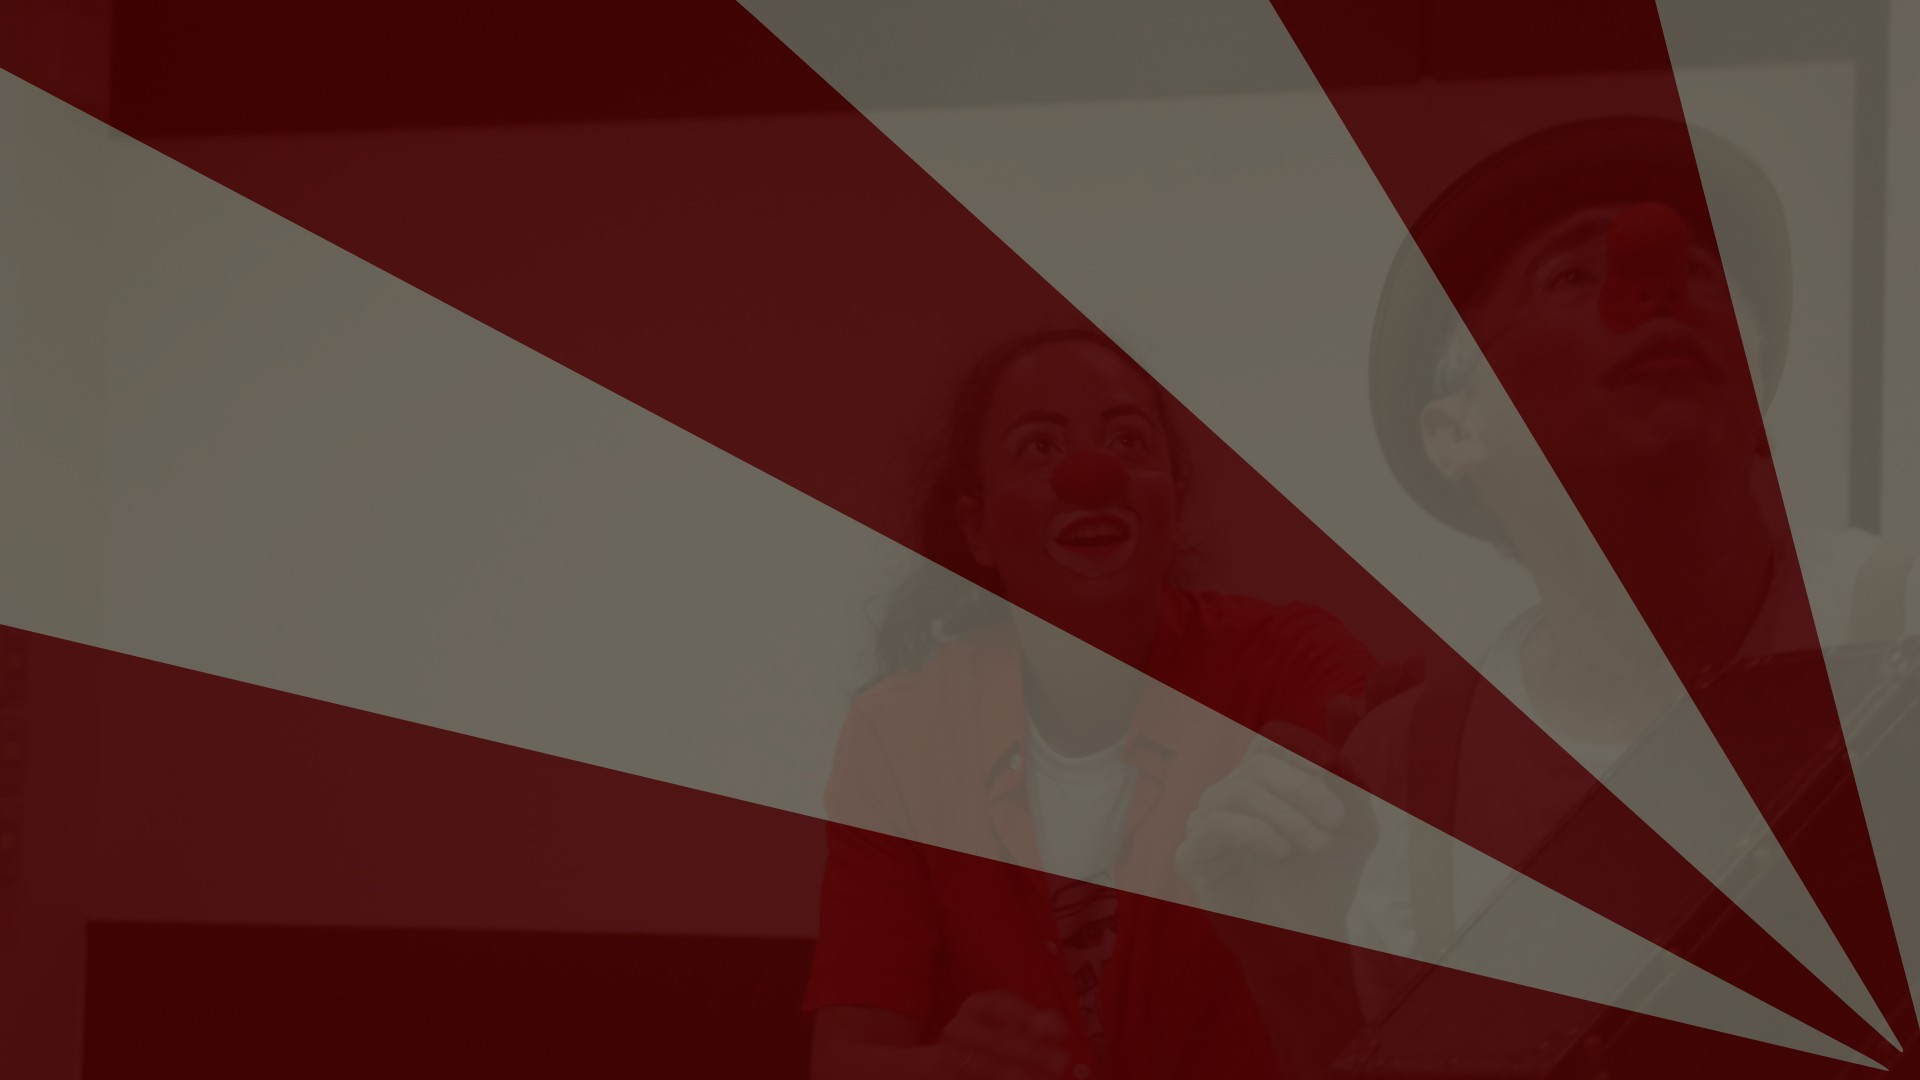
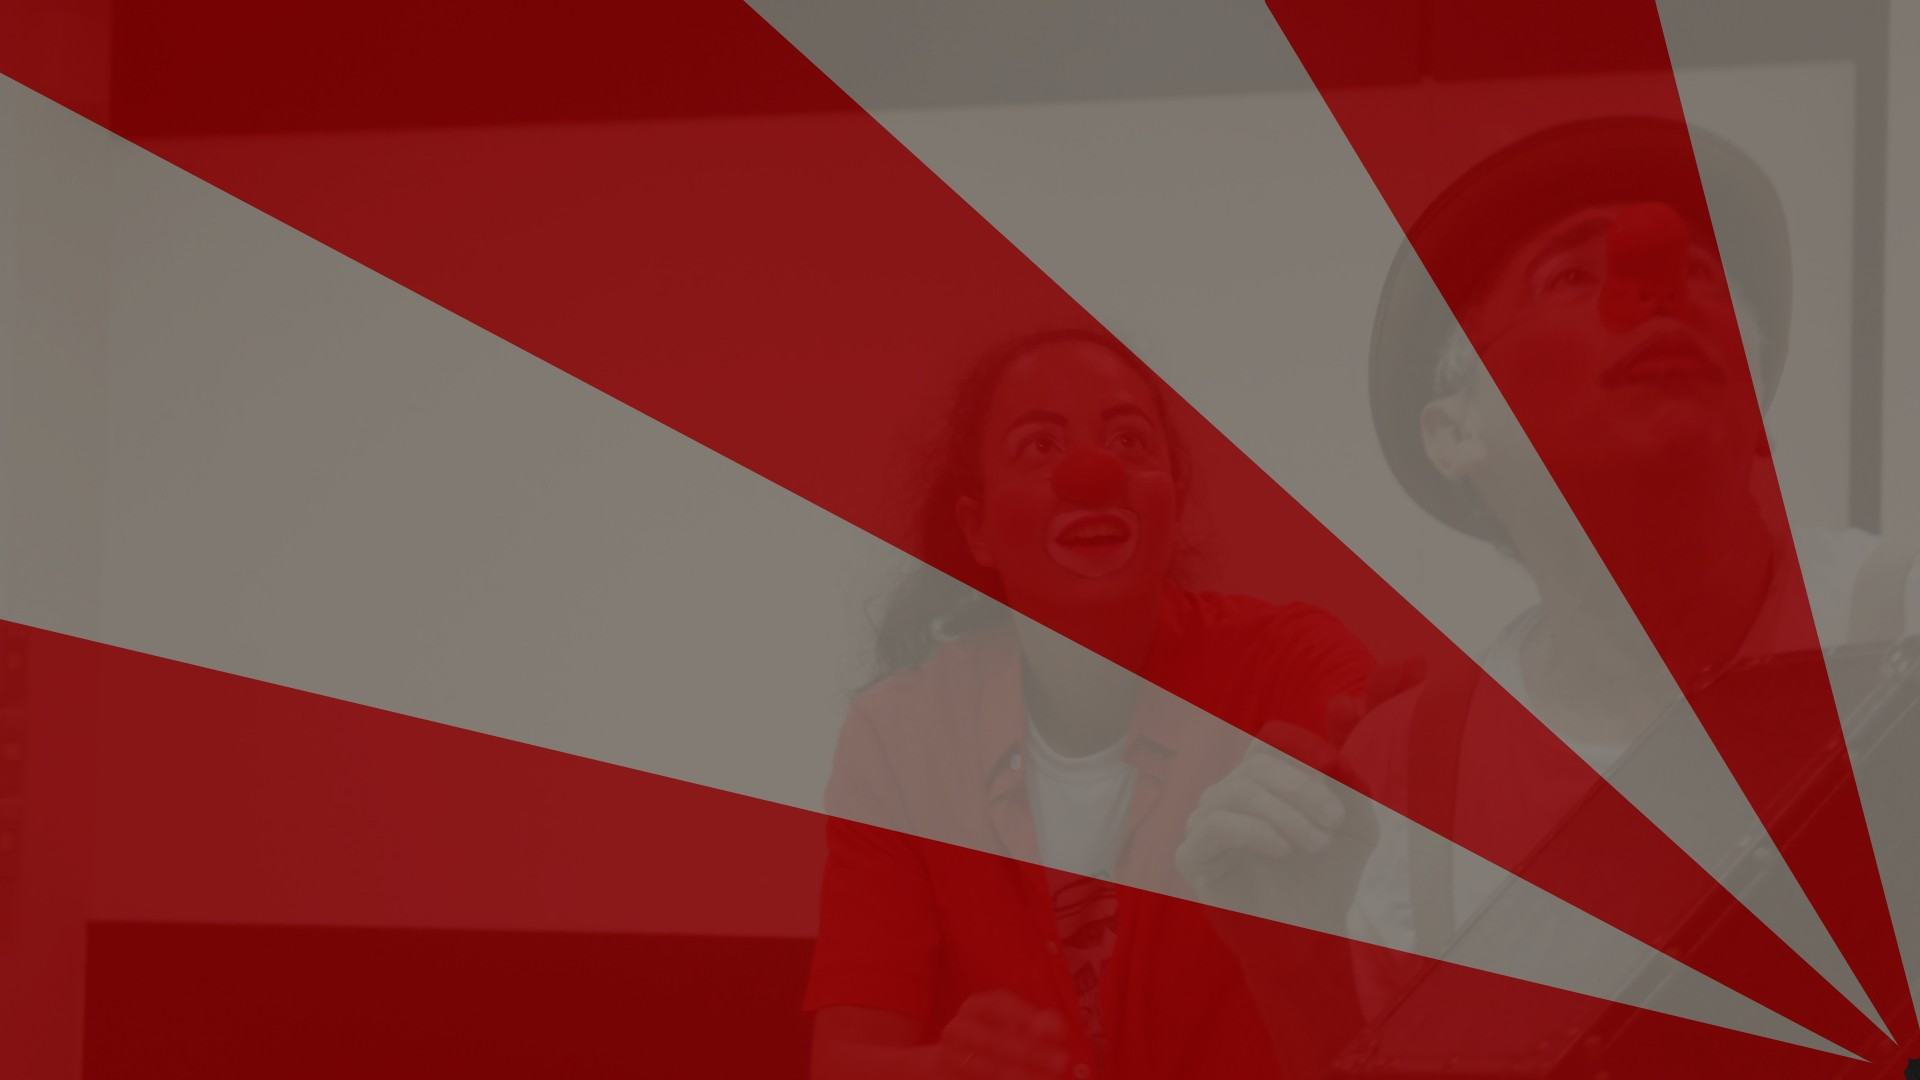
Add who is who section and text from the IAG site

diff --git a/index.html b/index.html
@@ -46,10 +46,10 @@
         <nav aria-label="Main">
           <ul class="list-inline" role="list">
             <li>
-              <a href="#sobre">Sobre</a>
+              <a href="#workshop">Workshop</a>
             </li>
             <li>
-              <a href="#workshop">Workshop</a>
+              <a href="#sobre">Quem somos</a>
             </li>
             <li>
               <a href="#contato">Contato</a>
@@ -58,29 +58,48 @@
         </nav>
       </div>
     </section>
-    <section>
+    <section id="workshop">
       <div class="content flow">
-        <h2 id="workshop">Workshop</h2>
+        <h2>Workshop</h2>
         <p>
-        Lorem ipsum dolor sit amet, consectetur adipiscing elit, sed do eiusmod
-        tempor incididunt ut labore et dolore magna aliqua. Ut enim ad minim
-        veniam, quis nostrud exercitation ullamco laboris nisi ut aliquip ex ea
-        commodo consequat. Duis aute irure dolor in reprehenderit in voluptate
-        velit esse cillum dolore eu fugiat nulla pariatur. Excepteur sint
-        occaecat cupidatat non <a href="">proident</a>, sunt in culpa qui officia deserunt
-        mollit anim id est laborum.
+          O objetivo da oficina de palhaçaria científica é proporcionar aos
+          participantes uma abordagem criativa e lúdica para explorar e
+          <strong>comunicar conceitos científicos</strong> de maneira acessível e
+          envolvente. Através da incorporação de <strong>técnicas de
+          palhaçaria</strong>, os cientistas poderão desenvolver habilidades de
+          comunicação não convencionais, aprimorar a expressão corporal e
+          facial, e aprender a <strong>simplificar temas complexos</strong>. O
+          objetivo é capacitar os participantes a transmitirem sua paixão pela
+          ciência de uma forma única, gerando uma conexão mais profunda e
+          significativa com o público, <strong>independentemente de sua
+          formação acadêmica.</strong>
+        </p>
+        <p>
+          <strong>Quem pode participar:</strong> A oficina destina-se a um
+          público diversificado, incluindo professores do ensino médio e
+          superior, bem como alunos de graduação e pós-graduação.
+        </p>
+        <p>
+          <strong>Quando:</strong> de 27/02/2024 até 07/03/2024 (terças,
+          quartas e quintas-feira) das 19:00 às 22:00. A apresentação
+          final será no dia 08/03/2024 (sexta-feira), às 12:00.
+          A carga horária total é de 20h.
+        </p>
+        <p>
+          <strong>Período de inscrições:</strong> de 17/01/2024 00:00 a 02/02/2024 23:59.
         </p>
         <ul class="list-inline flow-large" role="list">
           <li>
-            <a class="button" target="_blank" href="#sobre">Inscreva-se!</a>
+            <a class="button" target="_blank" href="https://uspdigital.usp.br/apolo">Inscrições</a>
           </li>
         </ul>
       </div>
     </section>
-    <section class="background-light">
+    <section id="sobre" class="background-light">
       <div class="content flow">
-        <h2 id="sobre">Sobre</h2>
+        <h2>Quem somos</h2>
         <p>
+        Sobre a equipe. Fotos, nome, e uma pequena biografia.
         Lorem ipsum dolor sit amet, consectetur adipiscing elit, sed do eiusmod
         tempor incididunt ut labore et dolore magna aliqua. Ut enim ad minim
         veniam, quis nostrud exercitation ullamco laboris nisi ut aliquip ex ea
@@ -89,11 +108,64 @@
         occaecat cupidatat non proident, sunt in culpa qui officia deserunt
         mollit anim id est laborum.
         </p>
+        <div class="row flow text-center">
+          <div class="col flow flow-small">
+            <div class="negative-grid">
+              <img class="avatar" src="images/george-sand.jpg" alt="">
+              <img class="avatar" src="images/dr-terremoto.jpg" alt="">
+            </div>
+            <h3>George Sand França / <br>Palhaço Dr. Terremoto</h3>
+            <p class="font-small">
+              Lorem ipsum dolor sit amet, consectetur adipiscing elit, sed do
+              eiusmod tempor incididunt ut labore et dolore magna aliqua.
+            </p>
+            <ul class="list-inline list-center" role="list">
+              <li>
+                <a target="_blank" href=""><i class="fab fa-instagram"></i></a>
+                <a target="_blank" href=""><i class="fab fa-linkedin"></i></a>
+              </li>
+            </ul>
+          </div>
+          <div class="col flow flow-small">
+            <div class="negative-grid">
+              <img class="avatar" src="images/julia.jpg" alt="">
+              <img class="avatar" src="images/catarina.jpg" alt="">
+            </div>
+            <h3>Julia Bertollini / <br> Palhaça Catarina</h3>
+            <p class="font-small">
+              Lorem ipsum dolor sit amet, consectetur adipiscing elit, sed do
+              eiusmod tempor incididunt ut labore et dolore magna aliqua.
+            </p>
+            <ul class="list-inline list-center" role="list">
+              <li>
+                <a target="_blank" href=""><i class="fab fa-instagram"></i></a>
+                <a target="_blank" href=""><i class="fab fa-linkedin"></i></a>
+              </li>
+            </ul>
+          </div>
+          <div class="col flow flow-small">
+            <div class="negative-grid">
+              <img class="avatar" src="images/pedro-caroca.jpg" alt="">
+              <img class="avatar" src="images/seucocó.jpg" alt="">
+            </div>
+            <h3>Pedro Caroca / <br> Palhaço Seu Cocó</h3>
+            <p class="font-small">
+              Lorem ipsum dolor sit amet, consectetur adipiscing elit, sed do
+              eiusmod tempor incididunt ut labore et dolore magna aliqua.
+            </p>
+            <ul class="list-inline list-center" role="list">
+              <li>
+                <a target="_blank" href=""><i class="fab fa-instagram"></i></a>
+                <a target="_blank" href=""><i class="fab fa-linkedin"></i></a>
+              </li>
+            </ul>
+          </div>
+        </div>
       </div>
     </section>
-    <section>
+    <section id="contato">
       <div class="content flow">
-        <h2 id="contato">Contato</h2>
+        <h2>Contato</h2>
         <p>
         Lorem ipsum dolor sit amet, consectetur adipiscing elit, sed do eiusmod
         tempor incididunt ut labore et dolore magna aliqua. Ut enim ad minim
@@ -105,7 +177,7 @@
         </p>
         <ul class="list-inline flow-large" role="list">
           <li>
-            <a class="button" target="_blank" href="#sobre">Inscreva-se!</a>
+            <a class="button" target="_blank" href="#sobre">Alguma coisa</a>
           </li>
         </ul>
       </div>

diff --git a/css/style.css b/css/style.css
@@ -5,7 +5,7 @@
   --color-dark: #372f2c;
   --color-medium: #dcceb4;
   --color-light: #fff7f7;
-  --color-primary: #990002;
+  --color-primary: #891717;
   --color-muted: #6b6565;
 
   /* Type scale calculated using https://utopia.fyi/type/calculator */
@@ -36,20 +36,20 @@
 }
 
 body {
-  background: var(--color-medium);
-  color: var(--color-dark);
+  background: var(--color-primary);
+  color: var(--color-light);
   font-family: "Atkinson Hyperlegible", sans-serif;
   font-size: var(--size-1);
   line-height: 1.6;
 }
 
 a {
-  color: var(--color-dark);
-  text-decoration: underline var(--color-primary) 2px;
+  color: var(--color-light);
+  text-decoration: underline var(--color-medium) 2px;
 }
 
 a:hover {
-  color: var(--color-primary);
+  color: var(--color-medium);
 }
 
 h1,
@@ -65,11 +65,10 @@ h1 {
 
 h2 {
   font-size: var(--size-4);
-  border-bottom: 2px solid var(--color-secondary);
 }
 
 h3 {
-  font-size: var(--size-3);
+  font-size: var(--size-2);
 }
 
 header, footer {
@@ -180,14 +179,36 @@ blockquote > * + *, figure > * + *, .callout > * + * {
   --flow-space: 2em;
 }
 
-.background-dark {
-  background-color: var(--color-medium);
-}
-
 .callout {
   background-color: var(--color-lightish);
   border-left: var(--block-border) solid var(--color-primary);
   padding: var(--gutter);
+}
+
+.row {
+  display: flex;
+  flex-wrap: wrap;
+  align-items: center;
+  justify-content: flex-start;
+  gap: var(--gutter) var(--space-m);
+  --flow-space: 2em;
+}
+
+.col {
+  flex: 1;
+  min-width: 300px;
+}
+
+.negative-grid {
+  display: grid;
+  grid-template-columns: repeat(auto-fit, clamp(5rem, 50%, 15rem));
+  transform: scale(83.33%);
+  transform-origin: center;
+}
+
+.negative-grid > * {
+  transform: scale(120%);
+  transform-origin: center;
 }
 
 /* Utilities */
@@ -202,6 +223,10 @@ blockquote > * + *, figure > * + *, .callout > * + * {
   padding-left: 0;
 }
 
+.list-center {
+  justify-content: center;
+}
+
 .spread {
   display: flex;
   flex-wrap: wrap;
@@ -211,18 +236,31 @@ blockquote > * + *, figure > * + *, .callout > * + * {
 }
 
 .button {
-  background-color: var(--color-primary);
+  background-color: var(--color-light);
   border-radius: 0.2em;
-  color: var(--color-light);
+  color: var(--color-primary);
   padding: var(--space-xs);
+  text-decoration: none;
 }
 
 .button:hover {
-  background-color: var(--color-light);
+  background-color: var(--color-medium);
+  color: var(--color-dark);
+}
+
+.avatar {
+  border-radius: 100%;
+  border: 0.25em solid var(--color-light);
+  aspect-ratio: 1/1;
+  object-fit: cover;
 }
 
 /* Single-style utilities */
 /*****************************************************************************/
+.flow-small {
+  --flow-space: 0.5em;
+}
+
 .flow-large {
   --flow-space: 2.5em;
 }
@@ -232,7 +270,7 @@ blockquote > * + *, figure > * + *, .callout > * + * {
 }
 
 .font-small {
-  font-size: var(--size--1);
+  font-size: var(--size-0);
 }
 
 .font-normal {
@@ -276,5 +314,10 @@ blockquote > * + *, figure > * + *, .callout > * + * {
 }
 
 .background-light {
-  background-color: var(--color-light);
+  background-color: var(--color-medium);
+  color: var(--color-dark);
+}
+
+.background-light a {
+  color: var(--color-dark);
 }
